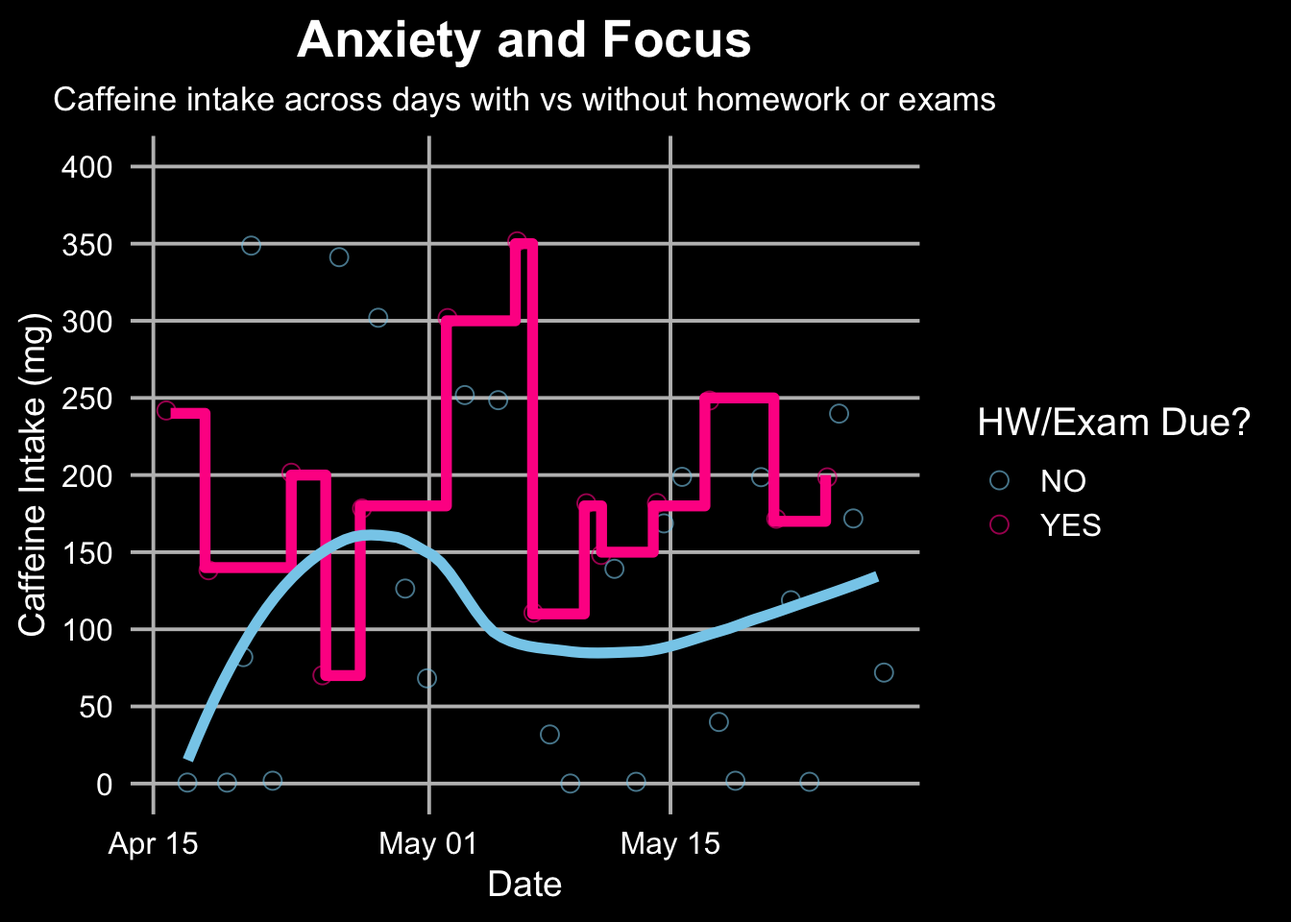
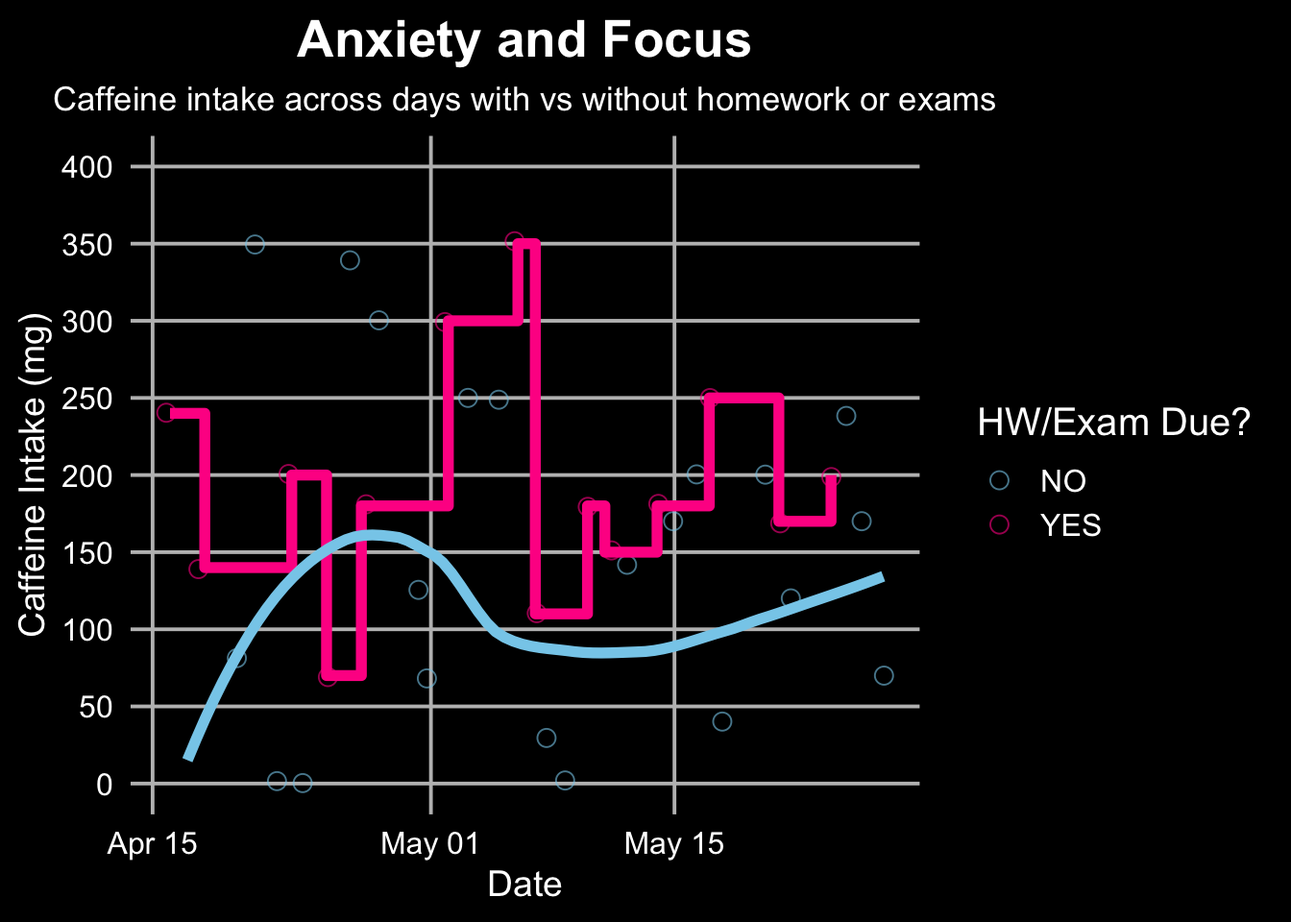
added in my drawn out depiction of the study. fixed the flextable so that it only showed the means to the first decimal place.

diff --git a/code/quartohw3.html b/code/quartohw3.html
@@ -169,9 +169,11 @@ The following object is masked from 'package:readr':
 <p><a href="https://github.com/marcelotmiller/ENVS_193DS_homework-03.git" class="uri">https://github.com/marcelotmiller/ENVS_193DS_homework-03.git</a></p>
 <p>#1</p>
 <p>a.)</p>
-<p>The data that I have gathered for my caffeine study consist primarily of binomial categorical data (hw/exam due and exercised) and continuous variables (caffeine amount), along with ordinal variables (date and time). The primary way that I would be comparing a response and independent variables are by comparing the means of caffeine amounts on days that I have homework/exam due vs those that I don’t, with the intention of proving or denying the suspicion I have that I consume more caffeine on academically demanding days.</p>
+<p>The data that I have gathered for my caffeine study consist primarily of binomial categorical data (HW/exam due and exercised) and continuous variables (caffeine amount), along with ordinal variables (date and time). The primary way that I would be comparing response and independent variables are by comparing the means of caffeine consumption on days that I have homework/exam due vs those that I don’t, with the intention of proving or denying the suspicion I have that I consume more caffeine on academically demanding days.</p>
 <p>b.)</p>
 <div class="cell">
+<div class="sourceCode cell-code" id="cb12"><pre class="sourceCode r code-with-copy"><code class="sourceCode r"><span id="cb12-1"><a href="#cb12-1" aria-hidden="true" tabindex="-1"></a><span class="co"># loading and cleaning data</span></span>
+<span id="cb12-2"><a href="#cb12-2" aria-hidden="true" tabindex="-1"></a>data <span class="ot">&lt;-</span> <span class="fu">read_csv</span>(<span class="st">"data_trial_june1st"</span>)</span></code><button title="Copy to Clipboard" class="code-copy-button"><i class="bi"></i></button></pre></div>
 <div class="cell-output cell-output-stderr">
 <pre><code>Rows: 42 Columns: 7
 ── Column specification ────────────────────────────────────────────────────────
@@ -183,10 +185,32 @@ date (1): Date
 ℹ Use `spec()` to retrieve the full column specification for this data.
 ℹ Specify the column types or set `show_col_types = FALSE` to quiet this message.</code></pre>
 </div>
-<div class="cell-output cell-output-stderr">
-<pre><code>Warning: Removed 5 rows containing missing values or values outside the scale range
-(`geom_point()`).</code></pre>
-</div>
+<div class="sourceCode cell-code" id="cb14"><pre class="sourceCode r code-with-copy"><code class="sourceCode r"><span id="cb14-1"><a href="#cb14-1" aria-hidden="true" tabindex="-1"></a>clean_data <span class="ot">&lt;-</span> data <span class="sc">|&gt;</span></span>
+<span id="cb14-2"><a href="#cb14-2" aria-hidden="true" tabindex="-1"></a>  <span class="fu">filter</span>(<span class="sc">!</span><span class="fu">is.na</span>(<span class="st">`</span><span class="at">Caffeine (mg)</span><span class="st">`</span>), <span class="sc">!</span><span class="fu">is.na</span>(<span class="st">`</span><span class="at">HW/Exam Due</span><span class="st">`</span>)) <span class="sc">|&gt;</span></span>
+<span id="cb14-3"><a href="#cb14-3" aria-hidden="true" tabindex="-1"></a>  <span class="fu">select</span>(<span class="st">`</span><span class="at">HW/Exam Due</span><span class="st">`</span>, <span class="st">`</span><span class="at">Caffeine (mg)</span><span class="st">`</span>)</span>
+<span id="cb14-4"><a href="#cb14-4" aria-hidden="true" tabindex="-1"></a></span>
+<span id="cb14-5"><a href="#cb14-5" aria-hidden="true" tabindex="-1"></a><span class="co"># summarize the mean of the caffeine consumption in Yes/No groups</span></span>
+<span id="cb14-6"><a href="#cb14-6" aria-hidden="true" tabindex="-1"></a>caffeine_summary <span class="ot">&lt;-</span> clean_data <span class="sc">|&gt;</span></span>
+<span id="cb14-7"><a href="#cb14-7" aria-hidden="true" tabindex="-1"></a>  <span class="fu">group_by</span>(<span class="st">`</span><span class="at">HW/Exam Due</span><span class="st">`</span>) <span class="sc">|&gt;</span></span>
+<span id="cb14-8"><a href="#cb14-8" aria-hidden="true" tabindex="-1"></a>  <span class="fu">summarize</span>(<span class="at">mean_caffeine =</span> <span class="fu">mean</span>(<span class="st">`</span><span class="at">Caffeine (mg)</span><span class="st">`</span>), <span class="at">.groups =</span> <span class="st">"drop"</span>)</span>
+<span id="cb14-9"><a href="#cb14-9" aria-hidden="true" tabindex="-1"></a></span>
+<span id="cb14-10"><a href="#cb14-10" aria-hidden="true" tabindex="-1"></a><span class="co"># create plot with two categories and clear tick marks for caffeine (mg) on y-axis</span></span>
+<span id="cb14-11"><a href="#cb14-11" aria-hidden="true" tabindex="-1"></a><span class="fu">ggplot</span>(clean_data, <span class="fu">aes</span>(<span class="at">x =</span> <span class="st">`</span><span class="at">HW/Exam Due</span><span class="st">`</span>, <span class="at">y =</span> <span class="st">`</span><span class="at">Caffeine (mg)</span><span class="st">`</span>, <span class="at">color =</span> <span class="st">`</span><span class="at">HW/Exam Due</span><span class="st">`</span>)) <span class="sc">+</span></span>
+<span id="cb14-12"><a href="#cb14-12" aria-hidden="true" tabindex="-1"></a>  <span class="fu">geom_jitter</span>(<span class="at">width =</span> <span class="fl">0.2</span>, <span class="at">size =</span> <span class="dv">2</span>, <span class="at">alpha =</span> <span class="fl">0.7</span>) <span class="sc">+</span></span>
+<span id="cb14-13"><a href="#cb14-13" aria-hidden="true" tabindex="-1"></a>  <span class="fu">stat_summary</span>(<span class="at">fun =</span> mean, <span class="at">geom =</span> <span class="st">"crossbar"</span>, <span class="at">width =</span> <span class="fl">0.5</span>, <span class="at">fatten =</span> <span class="dv">2</span>, <span class="at">color =</span> <span class="st">"black"</span>) <span class="sc">+</span></span>
+<span id="cb14-14"><a href="#cb14-14" aria-hidden="true" tabindex="-1"></a>  <span class="fu">scale_color_manual</span>(<span class="at">values =</span> <span class="fu">c</span>(<span class="st">"YES"</span> <span class="ot">=</span> <span class="st">"chartreuse3"</span>, <span class="st">"NO"</span> <span class="ot">=</span> <span class="st">"brown1"</span>)) <span class="sc">+</span></span>
+<span id="cb14-15"><a href="#cb14-15" aria-hidden="true" tabindex="-1"></a>  <span class="fu">scale_y_continuous</span>(<span class="at">limits =</span> <span class="fu">c</span>(<span class="dv">0</span>, <span class="dv">400</span>), <span class="at">breaks =</span> <span class="fu">seq</span>(<span class="dv">0</span>, <span class="dv">400</span>, <span class="dv">50</span>)) <span class="sc">+</span></span>
+<span id="cb14-16"><a href="#cb14-16" aria-hidden="true" tabindex="-1"></a>  <span class="fu">labs</span>(</span>
+<span id="cb14-17"><a href="#cb14-17" aria-hidden="true" tabindex="-1"></a>    <span class="at">title =</span> <span class="st">"Caffeine Consumption on Days With and Without Homework or Exams"</span>,</span>
+<span id="cb14-18"><a href="#cb14-18" aria-hidden="true" tabindex="-1"></a>    <span class="at">x =</span> <span class="st">"Homework or Exam Due?"</span>,</span>
+<span id="cb14-19"><a href="#cb14-19" aria-hidden="true" tabindex="-1"></a>    <span class="at">y =</span> <span class="st">"Caffeine Intake (mg)"</span>, </span>
+<span id="cb14-20"><a href="#cb14-20" aria-hidden="true" tabindex="-1"></a>    <span class="at">caption =</span> <span class="st">"Figure 1. Caffeine intake on days that involve an exam or homework being due and days that do not. </span><span class="sc">\n</span><span class="st">Each point represents the caffeine consumption for one day (mg). The horizontal black bars represent the means for each category. "</span></span>
+<span id="cb14-21"><a href="#cb14-21" aria-hidden="true" tabindex="-1"></a>  ) <span class="sc">+</span></span>
+<span id="cb14-22"><a href="#cb14-22" aria-hidden="true" tabindex="-1"></a>  <span class="fu">theme_minimal</span>(<span class="at">base_size =</span> <span class="dv">14</span>) <span class="sc">+</span></span>
+<span id="cb14-23"><a href="#cb14-23" aria-hidden="true" tabindex="-1"></a>  <span class="fu">theme</span>(</span>
+<span id="cb14-24"><a href="#cb14-24" aria-hidden="true" tabindex="-1"></a>    <span class="at">legend.position =</span> <span class="st">"none"</span>,</span>
+<span id="cb14-25"><a href="#cb14-25" aria-hidden="true" tabindex="-1"></a>    <span class="at">plot.title =</span> <span class="fu">element_text</span>(<span class="at">face =</span> <span class="st">"bold"</span>, <span class="at">hjust =</span> <span class="fl">0.5</span>, <span class="at">size =</span> <span class="dv">12</span>), <span class="at">plot.caption =</span> <span class="fu">element_text</span>(<span class="at">size =</span> <span class="dv">10</span>, <span class="at">hjust =</span> <span class="dv">0</span>, <span class="at">margin =</span> <span class="fu">margin</span>(<span class="at">t =</span> <span class="dv">10</span>))</span>
+<span id="cb14-26"><a href="#cb14-26" aria-hidden="true" tabindex="-1"></a>  )</span></code><button title="Copy to Clipboard" class="code-copy-button"><i class="bi"></i></button></pre></div>
 <div class="cell-output-display">
 <div>
 <figure class="figure">
@@ -196,15 +220,81 @@ date (1): Date
 </div>
 </div>
 <div class="cell">
+<div class="sourceCode cell-code" id="cb15"><pre class="sourceCode r code-with-copy"><code class="sourceCode r"><span id="cb15-1"><a href="#cb15-1" aria-hidden="true" tabindex="-1"></a><span class="fu">flextable</span>(caffeine_summary) <span class="sc">|&gt;</span> </span>
+<span id="cb15-2"><a href="#cb15-2" aria-hidden="true" tabindex="-1"></a>  <span class="fu">set_header_labels</span>(</span>
+<span id="cb15-3"><a href="#cb15-3" aria-hidden="true" tabindex="-1"></a>    <span class="st">'HW/Exam Due'</span> <span class="ot">=</span> <span class="st">"Homework or Exam Due?"</span>,</span>
+<span id="cb15-4"><a href="#cb15-4" aria-hidden="true" tabindex="-1"></a>    <span class="at">mean_caffeine =</span> <span class="st">"Average Caffeine Intake (mg)"</span>) <span class="sc">|&gt;</span> <span class="fu">colformat_num</span>(</span>
+<span id="cb15-5"><a href="#cb15-5" aria-hidden="true" tabindex="-1"></a>      <span class="at">j =</span> <span class="st">"mean_caffeine"</span>,</span>
+<span id="cb15-6"><a href="#cb15-6" aria-hidden="true" tabindex="-1"></a>      <span class="at">digits =</span> <span class="dv">1</span>) <span class="sc">|&gt;</span> <span class="co">#round to one decimal place</span></span>
+<span id="cb15-7"><a href="#cb15-7" aria-hidden="true" tabindex="-1"></a>  <span class="fu">autofit</span>() <span class="sc">|&gt;</span> </span>
+<span id="cb15-8"><a href="#cb15-8" aria-hidden="true" tabindex="-1"></a>  <span class="fu">fontsize</span>(<span class="at">size =</span> <span class="dv">12</span>, <span class="at">part =</span> <span class="st">"all"</span>) <span class="sc">|&gt;</span> <span class="co">#make font size apply to all parts</span></span>
+<span id="cb15-9"><a href="#cb15-9" aria-hidden="true" tabindex="-1"></a>  <span class="fu">fontsize</span>(<span class="at">size =</span> <span class="dv">14</span>, <span class="at">part =</span> <span class="st">"header"</span>) <span class="sc">|&gt;</span> <span class="co">#creating header</span></span>
+<span id="cb15-10"><a href="#cb15-10" aria-hidden="true" tabindex="-1"></a>  <span class="fu">bold</span>(<span class="at">part =</span> <span class="st">"header"</span>) <span class="sc">|&gt;</span> </span>
+<span id="cb15-11"><a href="#cb15-11" aria-hidden="true" tabindex="-1"></a>  <span class="fu">set_caption</span>(<span class="st">"Average caffeine consumption depending on whether homework was due or an exam took place"</span>)</span></code><button title="Copy to Clipboard" class="code-copy-button"><i class="bi"></i></button></pre></div>
 <div class="cell-output-display">
-<div class="tabwid"><style>.cl-d4901616{}.cl-d48593a8{font-family:'Helvetica';font-size:14pt;font-weight:bold;font-style:normal;text-decoration:none;color:rgba(0, 0, 0, 1.00);background-color:transparent;}.cl-d48593bc{font-family:'Helvetica';font-size:12pt;font-weight:normal;font-style:normal;text-decoration:none;color:rgba(0, 0, 0, 1.00);background-color:transparent;}.cl-d489f4e8{margin:0;text-align:left;border-bottom: 0 solid rgba(0, 0, 0, 1.00);border-top: 0 solid rgba(0, 0, 0, 1.00);border-left: 0 solid rgba(0, 0, 0, 1.00);border-right: 0 solid rgba(0, 0, 0, 1.00);padding-bottom:5pt;padding-top:5pt;padding-left:5pt;padding-right:5pt;line-height: 1;background-color:transparent;}.cl-d489f4f2{margin:0;text-align:right;border-bottom: 0 solid rgba(0, 0, 0, 1.00);border-top: 0 solid rgba(0, 0, 0, 1.00);border-left: 0 solid rgba(0, 0, 0, 1.00);border-right: 0 solid rgba(0, 0, 0, 1.00);padding-bottom:5pt;padding-top:5pt;padding-left:5pt;padding-right:5pt;line-height: 1;background-color:transparent;}.cl-d48a490c{width:2.034in;background-color:transparent;vertical-align: middle;border-bottom: 1.5pt solid rgba(102, 102, 102, 1.00);border-top: 1.5pt solid rgba(102, 102, 102, 1.00);border-left: 0 solid rgba(0, 0, 0, 1.00);border-right: 0 solid rgba(0, 0, 0, 1.00);margin-bottom:0;margin-top:0;margin-left:0;margin-right:0;}.cl-d48a4920{width:2.281in;background-color:transparent;vertical-align: middle;border-bottom: 1.5pt solid rgba(102, 102, 102, 1.00);border-top: 1.5pt solid rgba(102, 102, 102, 1.00);border-left: 0 solid rgba(0, 0, 0, 1.00);border-right: 0 solid rgba(0, 0, 0, 1.00);margin-bottom:0;margin-top:0;margin-left:0;margin-right:0;}.cl-d48a4921{width:2.034in;background-color:transparent;vertical-align: middle;border-bottom: 0 solid rgba(0, 0, 0, 1.00);border-top: 0 solid rgba(0, 0, 0, 1.00);border-left: 0 solid rgba(0, 0, 0, 1.00);border-right: 0 solid rgba(0, 0, 0, 1.00);margin-bottom:0;margin-top:0;margin-left:0;margin-right:0;}.cl-d48a492a{width:2.281in;background-color:transparent;vertical-align: middle;border-bottom: 0 solid rgba(0, 0, 0, 1.00);border-top: 0 solid rgba(0, 0, 0, 1.00);border-left: 0 solid rgba(0, 0, 0, 1.00);border-right: 0 solid rgba(0, 0, 0, 1.00);margin-bottom:0;margin-top:0;margin-left:0;margin-right:0;}.cl-d48a4934{width:2.034in;background-color:transparent;vertical-align: middle;border-bottom: 1.5pt solid rgba(102, 102, 102, 1.00);border-top: 0 solid rgba(0, 0, 0, 1.00);border-left: 0 solid rgba(0, 0, 0, 1.00);border-right: 0 solid rgba(0, 0, 0, 1.00);margin-bottom:0;margin-top:0;margin-left:0;margin-right:0;}.cl-d48a4935{width:2.281in;background-color:transparent;vertical-align: middle;border-bottom: 1.5pt solid rgba(102, 102, 102, 1.00);border-top: 0 solid rgba(0, 0, 0, 1.00);border-left: 0 solid rgba(0, 0, 0, 1.00);border-right: 0 solid rgba(0, 0, 0, 1.00);margin-bottom:0;margin-top:0;margin-left:0;margin-right:0;}</style><table data-quarto-disable-processing="true" class="cl-d4901616"><thead><tr style="overflow-wrap:break-word;"><th class="cl-d48a490c"><p class="cl-d489f4e8"><span class="cl-d48593a8">Homework or Exam Due?</span></p></th><th class="cl-d48a4920"><p class="cl-d489f4f2"><span class="cl-d48593a8">Average Caffeine Intake (mg)</span></p></th></tr></thead><tbody><tr style="overflow-wrap:break-word;"><td class="cl-d48a4921"><p class="cl-d489f4e8"><span class="cl-d48593bc">NO</span></p></td><td class="cl-d48a492a"><p class="cl-d489f4f2"><span class="cl-d48593bc">112.3214</span></p></td></tr><tr style="overflow-wrap:break-word;"><td class="cl-d48a4934"><p class="cl-d489f4e8"><span class="cl-d48593bc">YES</span></p></td><td class="cl-d48a4935"><p class="cl-d489f4f2"><span class="cl-d48593bc">194.2857</span></p></td></tr></tbody></table></div>
+<div class="tabwid"><style>.cl-30c19d3e{}.cl-30b8e720{font-family:'Helvetica';font-size:14pt;font-weight:bold;font-style:normal;text-decoration:none;color:rgba(0, 0, 0, 1.00);background-color:transparent;}.cl-30b8e734{font-family:'Helvetica';font-size:12pt;font-weight:normal;font-style:normal;text-decoration:none;color:rgba(0, 0, 0, 1.00);background-color:transparent;}.cl-30bc944c{margin:0;text-align:left;border-bottom: 0 solid rgba(0, 0, 0, 1.00);border-top: 0 solid rgba(0, 0, 0, 1.00);border-left: 0 solid rgba(0, 0, 0, 1.00);border-right: 0 solid rgba(0, 0, 0, 1.00);padding-bottom:5pt;padding-top:5pt;padding-left:5pt;padding-right:5pt;line-height: 1;background-color:transparent;}.cl-30bc9456{margin:0;text-align:right;border-bottom: 0 solid rgba(0, 0, 0, 1.00);border-top: 0 solid rgba(0, 0, 0, 1.00);border-left: 0 solid rgba(0, 0, 0, 1.00);border-right: 0 solid rgba(0, 0, 0, 1.00);padding-bottom:5pt;padding-top:5pt;padding-left:5pt;padding-right:5pt;line-height: 1;background-color:transparent;}.cl-30bcb81e{width:2.034in;background-color:transparent;vertical-align: middle;border-bottom: 1.5pt solid rgba(102, 102, 102, 1.00);border-top: 1.5pt solid rgba(102, 102, 102, 1.00);border-left: 0 solid rgba(0, 0, 0, 1.00);border-right: 0 solid rgba(0, 0, 0, 1.00);margin-bottom:0;margin-top:0;margin-left:0;margin-right:0;}.cl-30bcb81f{width:2.281in;background-color:transparent;vertical-align: middle;border-bottom: 1.5pt solid rgba(102, 102, 102, 1.00);border-top: 1.5pt solid rgba(102, 102, 102, 1.00);border-left: 0 solid rgba(0, 0, 0, 1.00);border-right: 0 solid rgba(0, 0, 0, 1.00);margin-bottom:0;margin-top:0;margin-left:0;margin-right:0;}.cl-30bcb828{width:2.034in;background-color:transparent;vertical-align: middle;border-bottom: 0 solid rgba(0, 0, 0, 1.00);border-top: 0 solid rgba(0, 0, 0, 1.00);border-left: 0 solid rgba(0, 0, 0, 1.00);border-right: 0 solid rgba(0, 0, 0, 1.00);margin-bottom:0;margin-top:0;margin-left:0;margin-right:0;}.cl-30bcb829{width:2.281in;background-color:transparent;vertical-align: middle;border-bottom: 0 solid rgba(0, 0, 0, 1.00);border-top: 0 solid rgba(0, 0, 0, 1.00);border-left: 0 solid rgba(0, 0, 0, 1.00);border-right: 0 solid rgba(0, 0, 0, 1.00);margin-bottom:0;margin-top:0;margin-left:0;margin-right:0;}.cl-30bcb82a{width:2.034in;background-color:transparent;vertical-align: middle;border-bottom: 1.5pt solid rgba(102, 102, 102, 1.00);border-top: 0 solid rgba(0, 0, 0, 1.00);border-left: 0 solid rgba(0, 0, 0, 1.00);border-right: 0 solid rgba(0, 0, 0, 1.00);margin-bottom:0;margin-top:0;margin-left:0;margin-right:0;}.cl-30bcb832{width:2.281in;background-color:transparent;vertical-align: middle;border-bottom: 1.5pt solid rgba(102, 102, 102, 1.00);border-top: 0 solid rgba(0, 0, 0, 1.00);border-left: 0 solid rgba(0, 0, 0, 1.00);border-right: 0 solid rgba(0, 0, 0, 1.00);margin-bottom:0;margin-top:0;margin-left:0;margin-right:0;}</style><table data-quarto-disable-processing="true" class="cl-30c19d3e"><thead><tr style="overflow-wrap:break-word;"><th class="cl-30bcb81e"><p class="cl-30bc944c"><span class="cl-30b8e720">Homework or Exam Due?</span></p></th><th class="cl-30bcb81f"><p class="cl-30bc9456"><span class="cl-30b8e720">Average Caffeine Intake (mg)</span></p></th></tr></thead><tbody><tr style="overflow-wrap:break-word;"><td class="cl-30bcb828"><p class="cl-30bc944c"><span class="cl-30b8e734">NO</span></p></td><td class="cl-30bcb829"><p class="cl-30bc9456"><span class="cl-30b8e734">112.3214</span></p></td></tr><tr style="overflow-wrap:break-word;"><td class="cl-30bcb82a"><p class="cl-30bc944c"><span class="cl-30b8e734">YES</span></p></td><td class="cl-30bcb832"><p class="cl-30bc9456"><span class="cl-30b8e734">194.2857</span></p></td></tr></tbody></table></div>
 </div>
 </div>
 <p>#2</p>
-<p>a.) When I think of caffeine I picture a feeling of both anxious energy and focus. The clearest way that I could depict days with homework/exams to embody the chaotic aspect that caffeine brings, while the days without so much academic stress will demonstrate the focus part of the substance. I think sticking with the original scatter/jitterplot format for the category of “YES” for HW/Exam will do well to emphasize the rigidity and lack of control that comes from the caffeine. The “NO” category could be depicted as a smooth flowing line or bar plot, with more stable fluctuations. Additionally, color could be a huge tool to show the difference in emotions, with a bright red or orange for the “YES” category, and a cool blue or green for the “NO”.</p>
+<p>a.) When I think of caffeine I picture the feelings of both anxious energy and focus. The clearest way that I could depict days with homework/exams was to connect it to the chaotic aspect that caffeine brings, while the days without so much academic stress will demonstrate the focus effect of the substance. I think sticking with the original scatter/jitterplot format will give me the freedom to accurately show each data point while picking what shape of trendline I choose to use.. The “NO” category could be depicted as a smooth flowing line or bar plot, with more stable fluctuations and the “YES” category shown as very sharp and rigid changes. Additionally, color could be a huge tool to show the difference in emotions, with a bright red or orange for the “YES” category, and a cool blue or green for the “NO”.</p>
 <p>b.)</p>
+<p><img src="images/IMG_0081.jpg" class="img-fluid"></p>
 <p>c.)</p>
 <div class="cell">
+<div class="sourceCode cell-code" id="cb16"><pre class="sourceCode r code-with-copy"><code class="sourceCode r"><span id="cb16-1"><a href="#cb16-1" aria-hidden="true" tabindex="-1"></a><span class="co">#separate categories Yes/No</span></span>
+<span id="cb16-2"><a href="#cb16-2" aria-hidden="true" tabindex="-1"></a>clean_data <span class="ot">&lt;-</span> clean_data <span class="sc">|&gt;</span> </span>
+<span id="cb16-3"><a href="#cb16-3" aria-hidden="true" tabindex="-1"></a>  <span class="fu">filter</span>(<span class="sc">!</span><span class="fu">is.na</span>(<span class="st">'Caffeine (mg)'</span>)) <span class="sc">|&gt;</span> </span>
+<span id="cb16-4"><a href="#cb16-4" aria-hidden="true" tabindex="-1"></a>    <span class="fu">mutate</span>(<span class="at">Date =</span> <span class="fu">seq.Date</span>(<span class="at">from =</span> <span class="fu">as.Date</span>(<span class="st">"2025-04-16"</span>), <span class="at">to =</span> <span class="fu">as.Date</span>(<span class="st">"2025-05-27"</span>), <span class="at">length.out =</span> <span class="fu">n</span>())) <span class="sc">|&gt;</span> </span>
+<span id="cb16-5"><a href="#cb16-5" aria-hidden="true" tabindex="-1"></a>  <span class="fu">mutate</span>(<span class="st">`</span><span class="at">HW/Exam Due</span><span class="st">`</span> <span class="ot">=</span> <span class="fu">factor</span>(<span class="st">`</span><span class="at">HW/Exam Due</span><span class="st">`</span>, <span class="at">levels =</span> <span class="fu">c</span>(<span class="st">"NO"</span>, <span class="st">"YES"</span>)))</span>
+<span id="cb16-6"><a href="#cb16-6" aria-hidden="true" tabindex="-1"></a></span>
+<span id="cb16-7"><a href="#cb16-7" aria-hidden="true" tabindex="-1"></a><span class="fu">ggplot</span>(clean_data, <span class="fu">aes</span>(<span class="at">x =</span> Date, <span class="at">y =</span> <span class="st">`</span><span class="at">Caffeine (mg)</span><span class="st">`</span>, <span class="at">color =</span> <span class="st">`</span><span class="at">HW/Exam Due</span><span class="st">`</span>)) <span class="sc">+</span></span>
+<span id="cb16-8"><a href="#cb16-8" aria-hidden="true" tabindex="-1"></a></span>
+<span id="cb16-9"><a href="#cb16-9" aria-hidden="true" tabindex="-1"></a>  <span class="co"># creating some glow effects</span></span>
+<span id="cb16-10"><a href="#cb16-10" aria-hidden="true" tabindex="-1"></a>  <span class="fu">geom_jitter</span>(<span class="at">width =</span> <span class="fl">0.4</span>, <span class="at">size =</span> <span class="dv">3</span>, <span class="at">alpha =</span> <span class="fl">0.6</span>, <span class="at">shape =</span> <span class="dv">21</span>, <span class="at">stroke =</span> <span class="fl">0.5</span>) <span class="sc">+</span></span>
+<span id="cb16-11"><a href="#cb16-11" aria-hidden="true" tabindex="-1"></a></span>
+<span id="cb16-12"><a href="#cb16-12" aria-hidden="true" tabindex="-1"></a>  <span class="co"># steep/staggared trendline for "YES"</span></span>
+<span id="cb16-13"><a href="#cb16-13" aria-hidden="true" tabindex="-1"></a>  <span class="fu">geom_step</span>(</span>
+<span id="cb16-14"><a href="#cb16-14" aria-hidden="true" tabindex="-1"></a>    <span class="at">data =</span> clean_data <span class="sc">|&gt;</span> </span>
+<span id="cb16-15"><a href="#cb16-15" aria-hidden="true" tabindex="-1"></a>      <span class="fu">filter</span>(<span class="st">`</span><span class="at">HW/Exam Due</span><span class="st">`</span> <span class="sc">==</span> <span class="st">"YES"</span>) <span class="sc">|&gt;</span> </span>
+<span id="cb16-16"><a href="#cb16-16" aria-hidden="true" tabindex="-1"></a>      <span class="fu">group_by</span>(Date) <span class="sc">|&gt;</span> </span>
+<span id="cb16-17"><a href="#cb16-17" aria-hidden="true" tabindex="-1"></a>      <span class="fu">summarize</span>(<span class="at">mean_caff =</span> <span class="fu">mean</span>(<span class="st">`</span><span class="at">Caffeine (mg)</span><span class="st">`</span>)),</span>
+<span id="cb16-18"><a href="#cb16-18" aria-hidden="true" tabindex="-1"></a>    <span class="fu">aes</span>(<span class="at">x =</span> Date, <span class="at">y =</span> mean_caff),</span>
+<span id="cb16-19"><a href="#cb16-19" aria-hidden="true" tabindex="-1"></a>    <span class="at">color =</span> <span class="st">"deeppink"</span>, <span class="at">linewidth =</span> <span class="dv">2</span></span>
+<span id="cb16-20"><a href="#cb16-20" aria-hidden="true" tabindex="-1"></a>  ) <span class="sc">+</span></span>
+<span id="cb16-21"><a href="#cb16-21" aria-hidden="true" tabindex="-1"></a></span>
+<span id="cb16-22"><a href="#cb16-22" aria-hidden="true" tabindex="-1"></a>  <span class="co"># smooth/flowing loess trendline curve for "NO"</span></span>
+<span id="cb16-23"><a href="#cb16-23" aria-hidden="true" tabindex="-1"></a>  <span class="fu">geom_smooth</span>(</span>
+<span id="cb16-24"><a href="#cb16-24" aria-hidden="true" tabindex="-1"></a>    <span class="at">data =</span> clean_data <span class="sc">|&gt;</span>  <span class="fu">filter</span>(<span class="st">`</span><span class="at">HW/Exam Due</span><span class="st">`</span> <span class="sc">==</span> <span class="st">"NO"</span>),</span>
+<span id="cb16-25"><a href="#cb16-25" aria-hidden="true" tabindex="-1"></a>    <span class="fu">aes</span>(<span class="at">x =</span> Date, <span class="at">y =</span> <span class="st">`</span><span class="at">Caffeine (mg)</span><span class="st">`</span>),</span>
+<span id="cb16-26"><a href="#cb16-26" aria-hidden="true" tabindex="-1"></a>    <span class="at">method =</span> <span class="st">"loess"</span>, <span class="at">se =</span> <span class="cn">FALSE</span>, <span class="at">linewidth =</span> <span class="dv">2</span>, <span class="at">color =</span> <span class="st">"skyblue"</span>, <span class="at">span =</span> <span class="fl">0.7</span></span>
+<span id="cb16-27"><a href="#cb16-27" aria-hidden="true" tabindex="-1"></a>  ) <span class="sc">+</span></span>
+<span id="cb16-28"><a href="#cb16-28" aria-hidden="true" tabindex="-1"></a></span>
+<span id="cb16-29"><a href="#cb16-29" aria-hidden="true" tabindex="-1"></a>  <span class="co"># adding labels and color </span></span>
+<span id="cb16-30"><a href="#cb16-30" aria-hidden="true" tabindex="-1"></a>  <span class="fu">scale_color_manual</span>(<span class="at">values =</span> <span class="fu">c</span>(<span class="st">"NO"</span> <span class="ot">=</span> <span class="st">"skyblue"</span>, <span class="st">"YES"</span> <span class="ot">=</span> <span class="st">"deeppink"</span>)) <span class="sc">+</span></span>
+<span id="cb16-31"><a href="#cb16-31" aria-hidden="true" tabindex="-1"></a></span>
+<span id="cb16-32"><a href="#cb16-32" aria-hidden="true" tabindex="-1"></a>  <span class="co"># inserting the title and subtitle with borders</span></span>
+<span id="cb16-33"><a href="#cb16-33" aria-hidden="true" tabindex="-1"></a>  <span class="fu">scale_y_continuous</span>(<span class="at">limits =</span> <span class="fu">c</span>(<span class="dv">0</span>, <span class="dv">400</span>), <span class="at">breaks =</span> <span class="fu">seq</span>(<span class="dv">0</span>, <span class="dv">400</span>, <span class="dv">50</span>)) <span class="sc">+</span></span>
+<span id="cb16-34"><a href="#cb16-34" aria-hidden="true" tabindex="-1"></a>  <span class="fu">labs</span>(</span>
+<span id="cb16-35"><a href="#cb16-35" aria-hidden="true" tabindex="-1"></a>    <span class="at">title =</span> <span class="st">"Anxiety and Focus"</span>,</span>
+<span id="cb16-36"><a href="#cb16-36" aria-hidden="true" tabindex="-1"></a>    <span class="at">subtitle =</span> <span class="st">"Caffeine intake across days with vs without homework or exams"</span>,</span>
+<span id="cb16-37"><a href="#cb16-37" aria-hidden="true" tabindex="-1"></a>    <span class="at">x =</span> <span class="st">"Date"</span>,</span>
+<span id="cb16-38"><a href="#cb16-38" aria-hidden="true" tabindex="-1"></a>    <span class="at">y =</span> <span class="st">"Caffeine Intake (mg)"</span>,</span>
+<span id="cb16-39"><a href="#cb16-39" aria-hidden="true" tabindex="-1"></a>    <span class="at">color =</span> <span class="st">"HW/Exam Due?"</span></span>
+<span id="cb16-40"><a href="#cb16-40" aria-hidden="true" tabindex="-1"></a>  ) <span class="sc">+</span></span>
+<span id="cb16-41"><a href="#cb16-41" aria-hidden="true" tabindex="-1"></a>  <span class="fu">theme_minimal</span>(<span class="at">base_size =</span> <span class="dv">15</span>) <span class="sc">+</span></span>
+<span id="cb16-42"><a href="#cb16-42" aria-hidden="true" tabindex="-1"></a>  <span class="fu">theme</span>(</span>
+<span id="cb16-43"><a href="#cb16-43" aria-hidden="true" tabindex="-1"></a>    <span class="at">plot.background =</span> <span class="fu">element_rect</span>(<span class="at">fill =</span> <span class="st">"black"</span>, <span class="at">color =</span> <span class="cn">NA</span>),</span>
+<span id="cb16-44"><a href="#cb16-44" aria-hidden="true" tabindex="-1"></a>    <span class="at">panel.background =</span> <span class="fu">element_rect</span>(<span class="at">fill =</span> <span class="st">"black"</span>),</span>
+<span id="cb16-45"><a href="#cb16-45" aria-hidden="true" tabindex="-1"></a>    <span class="at">panel.grid.major =</span> <span class="fu">element_line</span>(<span class="at">color =</span> <span class="st">"grey"</span>),</span>
+<span id="cb16-46"><a href="#cb16-46" aria-hidden="true" tabindex="-1"></a>    <span class="at">panel.grid.minor =</span> <span class="fu">element_blank</span>(),</span>
+<span id="cb16-47"><a href="#cb16-47" aria-hidden="true" tabindex="-1"></a>    <span class="at">plot.title =</span> <span class="fu">element_text</span>(<span class="at">color =</span> <span class="st">"white"</span>, <span class="at">face =</span> <span class="st">"bold"</span>, <span class="at">size =</span> <span class="dv">20</span>, <span class="at">hjust =</span> <span class="fl">0.5</span>),</span>
+<span id="cb16-48"><a href="#cb16-48" aria-hidden="true" tabindex="-1"></a>    <span class="at">plot.subtitle =</span> <span class="fu">element_text</span>(<span class="at">color =</span> <span class="st">"white"</span>, <span class="at">size =</span> <span class="dv">13</span>, <span class="at">hjust =</span> <span class="fl">0.5</span>),</span>
+<span id="cb16-49"><a href="#cb16-49" aria-hidden="true" tabindex="-1"></a>    <span class="at">axis.title =</span> <span class="fu">element_text</span>(<span class="at">color =</span> <span class="st">"white"</span>, <span class="at">size =</span> <span class="dv">14</span>),</span>
+<span id="cb16-50"><a href="#cb16-50" aria-hidden="true" tabindex="-1"></a>    <span class="at">axis.text =</span> <span class="fu">element_text</span>(<span class="at">color =</span> <span class="st">"white"</span>),</span>
+<span id="cb16-51"><a href="#cb16-51" aria-hidden="true" tabindex="-1"></a>    <span class="at">legend.background =</span> <span class="fu">element_rect</span>(<span class="at">fill =</span> <span class="st">"black"</span>),</span>
+<span id="cb16-52"><a href="#cb16-52" aria-hidden="true" tabindex="-1"></a>    <span class="at">legend.text =</span> <span class="fu">element_text</span>(<span class="at">color =</span> <span class="st">"white"</span>),</span>
+<span id="cb16-53"><a href="#cb16-53" aria-hidden="true" tabindex="-1"></a>    <span class="at">legend.title =</span> <span class="fu">element_text</span>(<span class="at">color =</span> <span class="st">"white"</span>)</span>
+<span id="cb16-54"><a href="#cb16-54" aria-hidden="true" tabindex="-1"></a>  )</span></code><button title="Copy to Clipboard" class="code-copy-button"><i class="bi"></i></button></pre></div>
 <div class="cell-output cell-output-stderr">
 <pre><code>`geom_smooth()` using formula = 'y ~ x'</code></pre>
 </div>
@@ -217,7 +307,21 @@ date (1): Date
 </div>
 </div>
 <p>d.)</p>
-<p>This affective visualization piece attempts to depict my personal experience with caffeine consumption for a 1.5 month period in peak midterm season at a university. It tracks my caffeine intake across days with homework/exams due, highlighting the spikes in caffeine consumption on academically challenging days, and following the smoother fluctuations on less stressful days. I took a lot of inspiration from Giorgia Lupi’s Dear Data Project, especially from her use of colors and chronological dates. I found that using color was an especially easy but impactful way to describe the difference in feeling depending on the day, along with the switch in effect that the caffeine provided. The work is a digital plot created using R, along with several packages within the program, combining a jitter plot and different angularity trendlines to demonstrate two different emotional narratives through data.</p>
+<p>This affective visualization piece attempts to depict my personal experience with caffeine consumption for a 1.5 month period during peak midterm season at the University of California, Santa Barbara. It tracks my caffeine intake across days with homework/exams due, highlighting the spikes in caffeine consumption on academically challenging days, and following the smoother fluctuations of consumption on less stressful days. I took a lot of inspiration from Giorgia Lupi’s Dear Data Project, especially from her use of colors and chronological dates. I found that using color was an especially easy but impactful way to describe the difference in emotions depending on the day, along with the switch in effect that the caffeine provided. The work is a digital plot created using R, along with several packages within the program, combining a jitter plot and trendlines of different angularity to demonstrate two different emotional narratives through data.</p>
+<p>#3</p>
+<p>a.)</p>
+<p>The main research question in the aimed to analyze what factors out of the eight analyzed (annual income, Democratic party<br>
+affiliation, state population, population percentage of high school and college graduates, area, and area<br>
+covered by water) were linked to recent renewable energy production in the United States. The statistical test used to test this was a multivariate linear regression analysis, where the primary predictor variable was the percentage of registered Democrats that reside in the state, and the primary response variable being the percentage of combined renewable energy in the state. As I mentioned in the homework two, “… relation between variables was found to be significant if the p-value was<br>
+below the set value of 0.05, along with checking if there was a positive or negative relationship using the<br>
+regression’s coefficient sign values.”</p>
+<p><img src="images/table_2_screenshot.png" class="img-fluid"></p>
+<p>b.)</p>
+<p>The table does well to show all eight predictor variables and links them to the main response variable of renewable energy adoption across different states in the country. The p-values give an accurate and clear understanding of whether certain predictor variables were significantly affecting the response. However, the table lacks in the key area of lacking the coefficient value, which would indicate whether the relationship was positive or negative.</p>
+<p>c.)</p>
+<p>In terms of aesthetics, the authors did very well in creating a very pleasing table to look at, which is neither overwhelming or boring. The two categories of “predictor variable” and “p” are in bold (“p” also italicized), which, after the title/subtitle, are immediately where the viewers eyes go.</p>
+<p>d.)</p>
+<p>If I were to change the table’s configuration, I would reduce the font size of the title/subtitle slightly so that there would be more room to increase the data section’s font size by 1 or 2 points. I think that because the title/subtitle are at the top of the page and are in bold, they will be the initial focus-point regardless of their extreme size, which suggests that reducing their font size slightly to allow for the data portion to be enlarged can be beneficial for those who may strain slightly to see the numerical values. I would make sure to include the regression coefficient sign values, as this would ensure clear understanding for viewers determining negative or positive relationships between the predictor and response variables. While it may be clear to some readers that the relationship is positive, it would be beneficial to reinforce this directly.</p>
 
 </main>
 <!-- /main column -->
